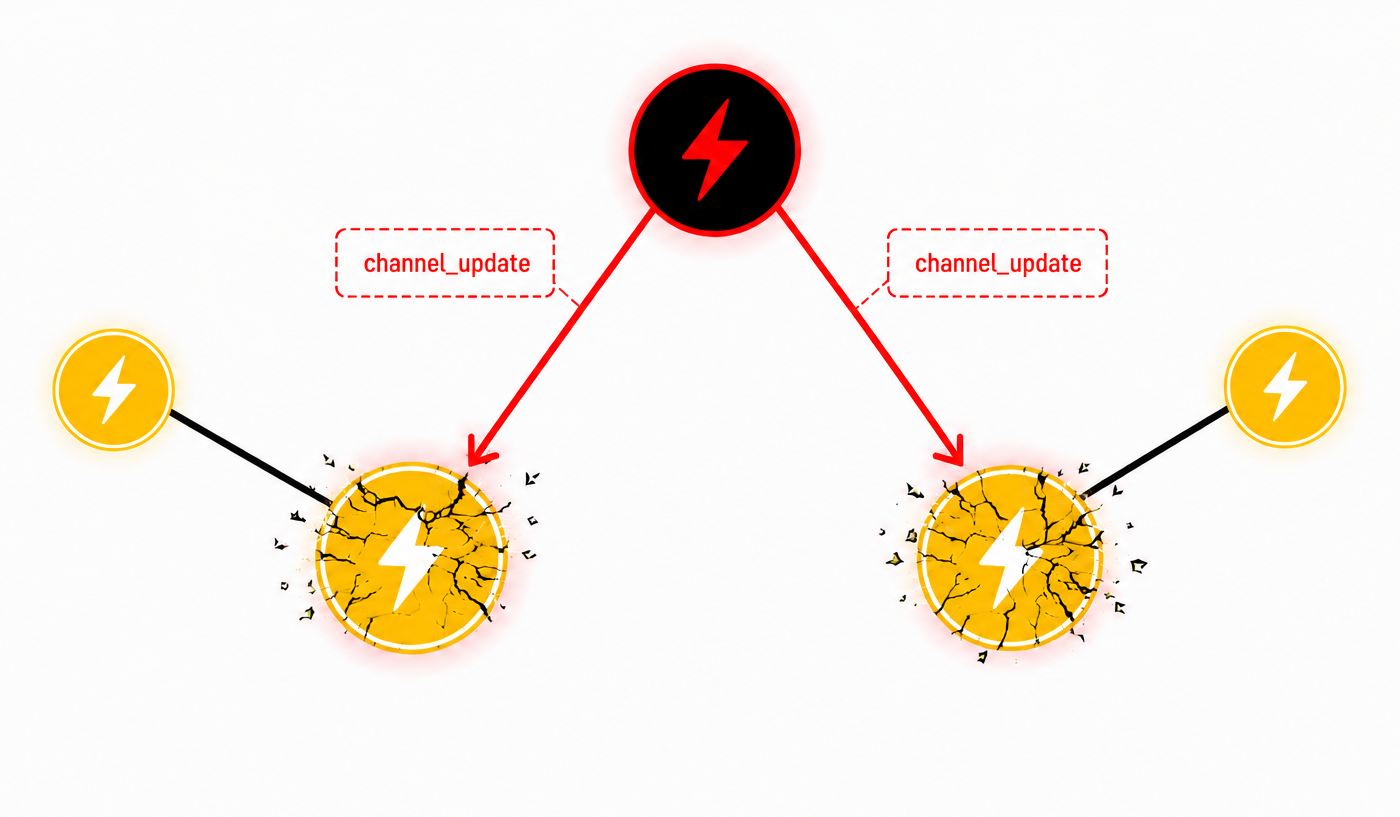
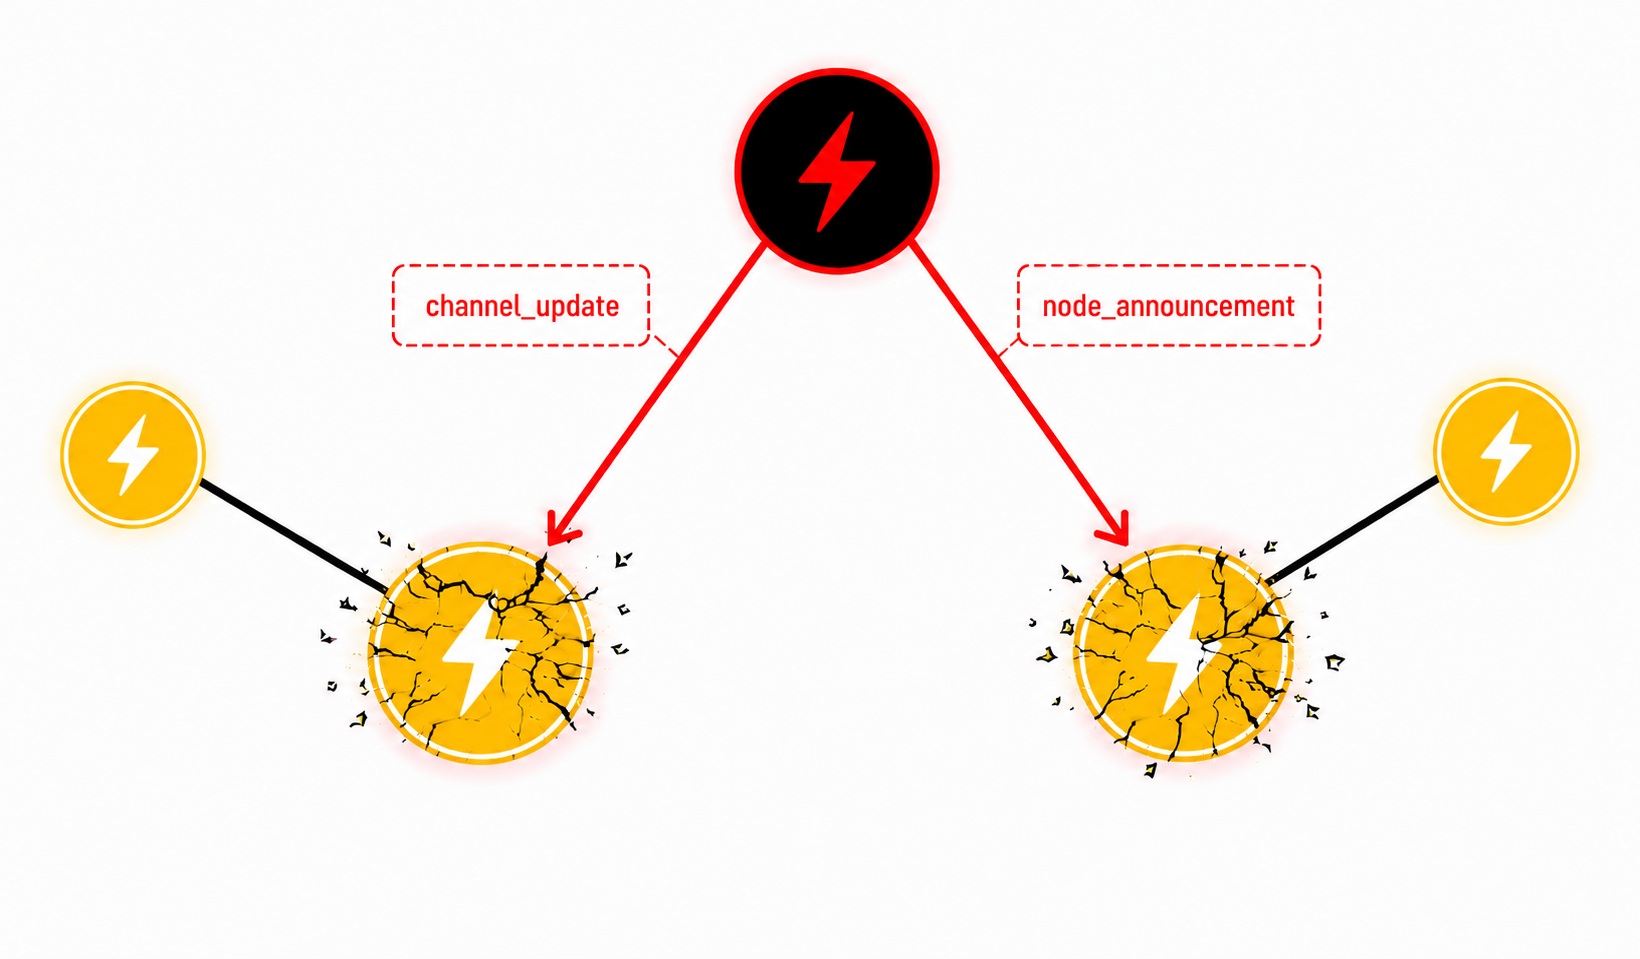
_posts: cover node_announcement in LND DoS writeup

diff --git a/_posts/2026-06-18-LND-Zero-Timestamp-Gossip-DoS.md b/_posts/2026-06-18-LND-Zero-Timestamp-Gossip-DoS.md
@@ -3,41 +3,41 @@ title: "LND: Zero-Timestamp Gossip DoS"
 date: 2026-06-18 10:30:00 +0530
 categories: [lightning]
 tags: [lightning, security, dos, lnd, fuzzing]
-description: Technical analysis of a zero-timestamp channel update DoS vulnerability in LND.
+description: Technical analysis of a zero-timestamp gossip DoS vulnerability in LND.
 image: ../assets/img/lnd-zero-timestamp-dos.png
 ---
 
-LND versions before _v0.20.1_ are vulnerable to a DoS issue where a specially crafted `channel_update` message can crash a node. Operators should upgrade promptly to avoid service disruption. The issue is fixed in [v0.20.1](https://github.com/lightningnetwork/lnd/releases/tag/v0.20.1-beta) and later.
+LND versions before _v0.20.1_ are vulnerable to a DoS issue where a specially crafted `channel_update` or `node_announcement` message can crash a node. Operators should upgrade promptly to avoid service disruption. The issue is fixed in [v0.20.1](https://github.com/lightningnetwork/lnd/releases/tag/v0.20.1-beta) and later.
 
 ## Vulnerability
 
 The Lightning Network uses [gossip messages](https://github.com/lightning/bolts/blob/master/07-routing-gossip.md) to maintain a distributed view of the network graph. Nodes exchange `channel_announcement`, `node_announcement`, and `channel_update` messages to advertise channels and routing policies. Before accepting `node_announcement` and `channel_update` messages, a Lightning node must first know and validate the corresponding `channel_announcement`.
 
-After validation, `channel_update` messages are propagated throughout the network. In LND, this propagation is handled by a gossip rebroadcast pipeline that uses a de-duplication cache to avoid repeatedly forwarding identical updates. When a new update arrives, its timestamp is compared against any previously stored update for the same channel and direction. Newer updates replace older ones, while older updates are discarded. The implementation of this logic prior to _v0.20.1_ can be found in [`deDupedAnnouncements.addMsg`](https://github.com/lightningnetwork/lnd/blob/91423ee5198e116b210f7f1c2e8b506d5ab28266/discovery/gossiper.go#L1133-L1189).
+After validation, `node_announcement` and `channel_update` messages are propagated throughout the network. In LND, this propagation is handled by a gossip rebroadcast pipeline that uses a de-duplication cache to avoid repeatedly forwarding identical announcements. When a new announcement arrives, its timestamp is compared against any previously stored announcements for the same channel, direction and node. Newer announcements replace older ones, while older announcements are discarded. The implementation of this logic prior to _v0.20.1_ can be found in [`deDupedAnnouncements.addMsg`](https://github.com/lightningnetwork/lnd/blob/91423ee5198e116b210f7f1c2e8b506d5ab28266/discovery/gossiper.go#L1133-L1229).
 
-The bug stems from how updates with a timestamp of 0 are handled. When a zero-timestamp `channel_update` is received for the first time, no cache entry exists and `oldTimestamp` remains initialized to 0. As a result, the code incorrectly treats the update as a previously seen message and enters the duplicate-message path: [`deDupedAnnouncements.addMsg.duplicate-update`](https://github.com/lightningnetwork/lnd/blob/91423ee5198e116b210f7f1c2e8b506d5ab28266/discovery/gossiper.go#L1183-L1188).
+The bug stems from how announcements with a timestamp of 0 are handled. When a zero-timestamp `node_announcement` or `channel_update` is received for the first time, no cache entry exists and `oldTimestamp` remains initialized to 0. As a result, the code incorrectly treats the announcement as a previously seen message and enters the duplicate-message path.
 
-However, because no previous entry existed, `mws.senders` was never initialized. Attempting to write to this nil map triggers a runtime panic that terminates the LND daemon, resulting in a complete loss of node availability until it is restarted.
+However, because no previous entry existed, the `senders` map was never initialized. Attempting to write to this nil map triggers a runtime panic that terminates the LND daemon, resulting in a complete loss of node availability until it is restarted.
 
 ## DoS Attack
 
-As discussed in the previous section, the panic is triggered only after a `channel_update` has passed validation and entered LND's gossip rebroadcast pipeline. Because gossip messages are authenticated, an attacker cannot simply modify an existing message; doing so would invalidate its signature and cause it to be rejected before reaching the vulnerable code path.
+As discussed in the previous section, the panic is triggered only after a `node_announcement` or `channel_update` has passed validation and entered LND's gossip rebroadcast pipeline. Because gossip messages are authenticated, an attacker cannot simply modify an existing message; doing so would invalidate its signature and cause it to be rejected before reaching the vulnerable code path.
 
-To exploit the bug, the attacker must generate a validly signed `channel_update` with a timestamp of 0.
+To exploit the bug, the attacker must generate a validly signed `node_announcement` or `channel_update` with a timestamp of 0.
 
 ### Method 1: Advertise a Real Channel
 
-The simplest approach is to open a public Lightning channel and advertise it normally. When broadcasting the corresponding `channel_update`, the attacker sets the timestamp to 0. A vulnerable LND node will accept the update and eventually trigger the panic.
+The simplest approach is to open a public Lightning channel and advertise it normally. When broadcasting the corresponding `node_announcement` or `channel_update`, the attacker sets the timestamp to 0. A vulnerable LND node will accept the announcement and eventually trigger the panic.
 
 #### Attack Cost
 
-This approach requires opening and eventually closing a public Lightning channel, incurring the associated on-chain fees. Furthermore, once the victim has processed the malicious update and restarted, the same update may be rejected as stale gossip, requiring a new channel to repeat the attack.
+This approach requires opening and eventually closing a public Lightning channel, incurring the associated on-chain fees. Furthermore, once the victim has processed the malicious announcement and restarted, the same announcement may be rejected as stale gossip, requiring a new channel to repeat the attack.
 
 ### Method 2: Advertise a Synthetic Channel
 
 A more efficient approach avoids opening a Lightning channel altogether. The attacker creates a funding transaction paying to a _2-of-2 P2WSH_ output controlled entirely by keys they own. After the funding transaction confirms, the attacker has sufficient information to construct a valid `channel_announcement` for a channel that does not correspond to any running Lightning node.
 
-Once the victim accepts the announcement, the attacker sends a corresponding zero-timestamp `channel_update`, triggering the panic. Because both channel endpoints are attacker-controlled, multiple valid updates can be generated using different node identities without incurring channel-closing costs.
+Once the victim accepts the announcement, the attacker sends a corresponding zero-timestamp `node_announcement` or `channel_update`, triggering the panic. Because both channel endpoints are attacker-controlled, multiple valid announcements can be generated using different node identities without incurring channel-closing costs.
 
 #### Attack Cost
 
@@ -47,13 +47,17 @@ This method requires only a funding transaction and its associated confirmation 
 
 BOLT 7 specifies that the sender of a `channel_update` _MUST set `timestamp` to greater than 0_, but does not explicitly define how receiving nodes should handle violations of this requirement. Due to this ambiguity, LND implicitly assumed that timestamps would always be valid.
 
-The fix rejects zero-timestamp updates early in the validation phase, so they never reach the gossip rebroadcast pipeline, fully mitigating the DoS condition. It can be found in [AuthenticatedGossiper.handleChanUpdate](https://github.com/lightningnetwork/lnd/blob/6b27461f001a9dbc547f707d5c5e05b55137f741/discovery/gossiper.go#L3173-L3192).
+For `node_announcement`, BOLT 7 does not impose any rule requiring the timestamp to be greater than 0. Nevertheless, a zero timestamp carries no meaningful value, so rejecting such announcements is the safest behavior.
+
+The fix rejects zero-timestamp gossip messages at parse time, so they never reach the gossip rebroadcast pipeline, fully mitigating the DoS condition. It can be found in the associated [pull request](https://github.com/lightningnetwork/lnd/pull/10469/files) (_lnwire: enforce non-zero timestamp in gossip messages_).
 
 ## Discovery
 
 The vulnerability was discovered while developing a gossip-discovery state-machine fuzz target for LND, designed to exercise the gossip subsystem with both valid and malformed messages to ensure that the implementation handled them safely.
 
 Given that Lightning gossip messages are widely propagated and inexpensive to generate, the subsystem represents a high-value attack surface. During fuzzing, a specific message sequence triggered a panic in LND's discovery subsystem, leading to the identification of a zero-timestamp `channel_update` vulnerability.
+
+After I disclosed the zero-timestamp `channel_update` vulnerability, the LND team realized that the same panic could also be triggered via a zero-timestamp `node_announcement`, and fixed both cases together.
 
 The fuzz target used for discovery is available in the associated [pull request](https://github.com/lightningnetwork/lnd/pull/10605).
 